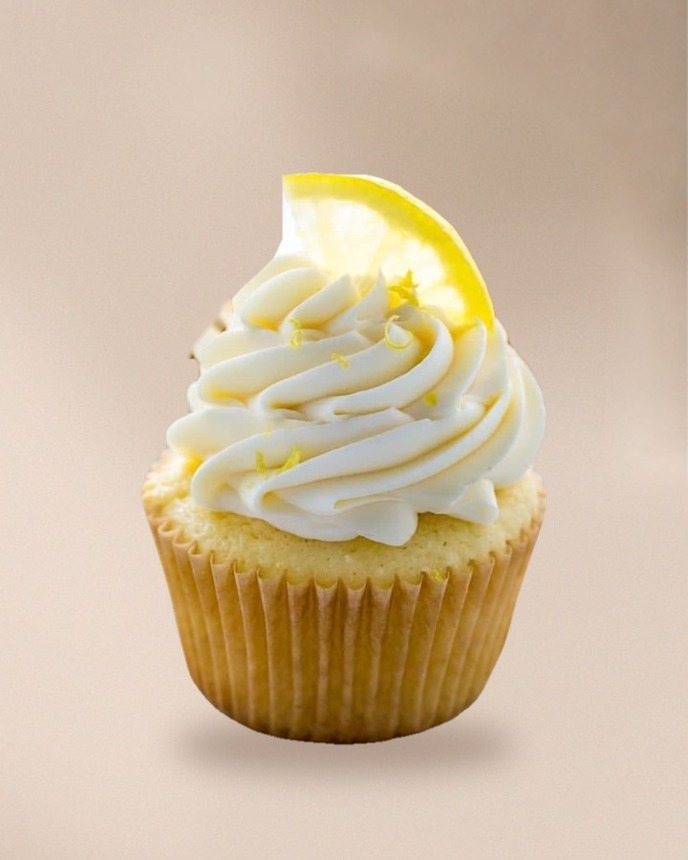
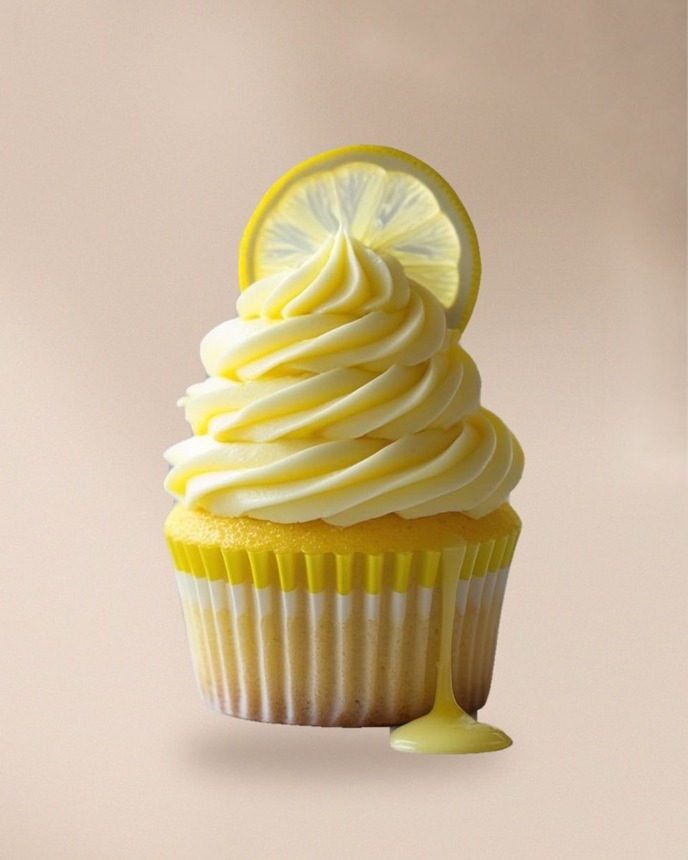
Add files via upload

Changed region(s): [[0.1831, 0.1512, 0.7936, 0.8767]]

diff --git a/index.html b/index.html
@@ -240,7 +240,7 @@ footer small{display:block;color:var(--mut);margin-top:12px;font-size:14px}
   <div class="facts">
     <div class="fact"><span class="lbl">Заказ</span><p>минимум за 3 дня</p></div>
     <div class="fact"><span class="lbl">Предоплата</span><p>50%</p></div>
-    <div class="fact"><span class="lbl">Получение</span><p>самовывоз м. Варшавская или доставка</p></div>
+    <div class="fact"><span class="lbl">Получение</span><p>самовывоз: м. Варшавская / м. Чертановская</p></div>
   </div>
   <div class="sizes">
     <div class="size"><span class="lbl">Бенто</span><p>Маленький торт на 2–3 человека, примерно 500 г</p></div>
@@ -376,7 +376,7 @@ footer small{display:block;color:var(--mut);margin-top:12px;font-size:14px}
   <div class="facts">
     <div class="fact"><span class="lbl">Заказ</span><p>минимум за 3 дня</p></div>
     <div class="fact"><span class="lbl">Предоплата</span><p>50%</p></div>
-    <div class="fact"><span class="lbl">Получение</span><p>самовывоз м. Варшавская или доставка</p></div>
+    <div class="fact"><span class="lbl">Получение</span><p>самовывоз: м. Варшавская / м. Чертановская</p></div>
   </div>
 </section>
 
